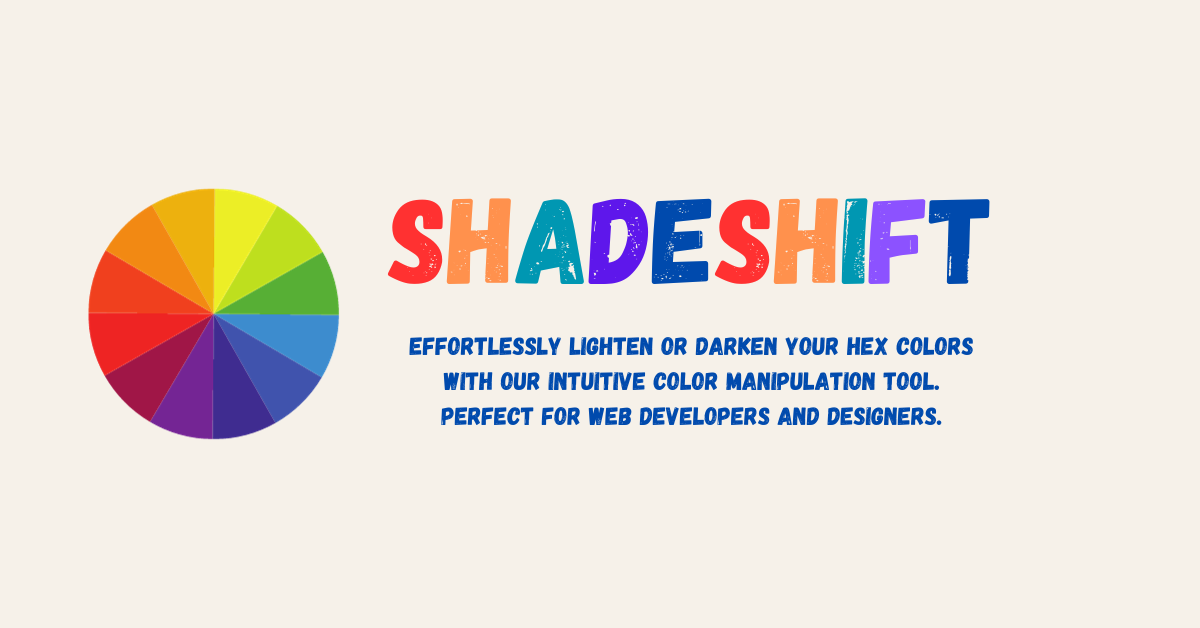
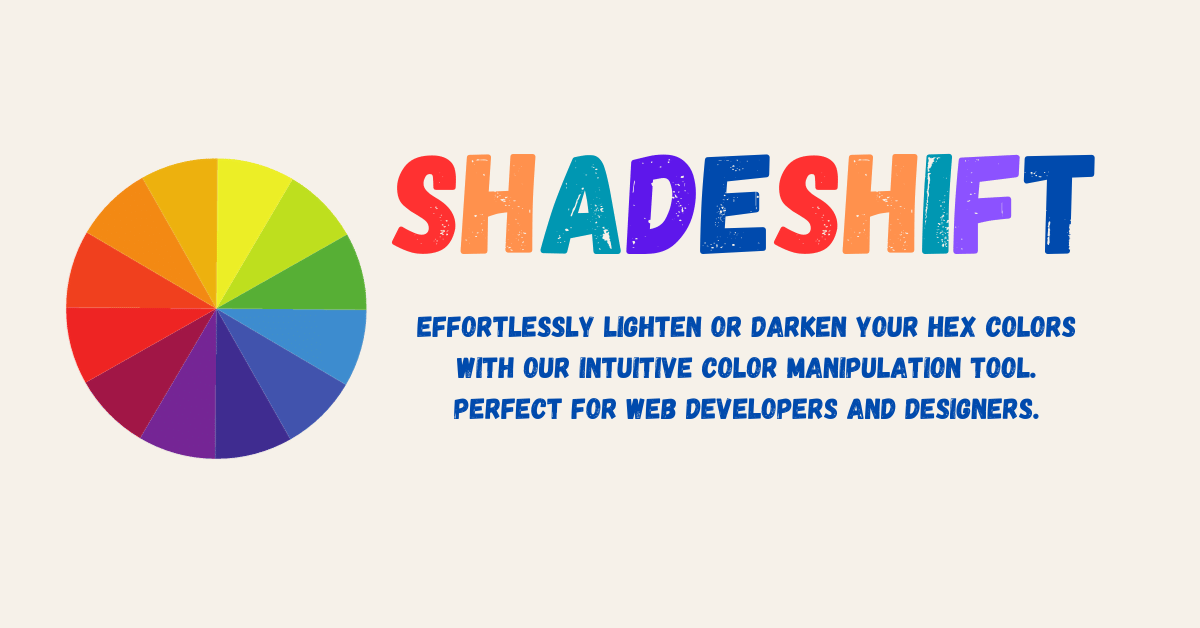
add github repo social image, Fix meta tag capitilization, add custom cursor for altered color and portfolio website link

Changed region(s): [[0.0308, 0.242, 0.925, 0.7564], [0.3392, 0.4841, 0.8942, 0.6959], [0.2158, 0.4236, 0.2467, 0.4538]]

diff --git a/index.html b/index.html
@@ -4,19 +4,19 @@
     <meta charset="UTF-8">
     <meta name="viewport" content="width=device-width, initial-scale=1.0">
 
-    <meta name="description" content="Shadeshift - Effortlessly lighten or darken your HEX colors with our intuitive color manipulation tool. Perfect for web developers and designers.">
+    <meta name="description" content="ShadeShift - Effortlessly lighten or darken your HEX colors with our intuitive color manipulation tool. Perfect for web developers and designers.">
     <meta name="author" content="Jacksen Nillson">
 
-    <meta property="og:title" content="Shadeshift: The Color Manipulation Tool" />
-    <meta property="og:description" content="Easily lighten or darken HEX colors with Shadeshift. Ideal for developers and designers seeking the perfect color shades." />
+    <meta property="og:title" content="ShadeShift: The Color Manipulation Tool" />
+    <meta property="og:description" content="Easily lighten or darken HEX colors with ShadeShift. Ideal for developers and designers seeking the perfect color shades." />
     <meta property="og:image" content="https://shadeshifttool.netlify.app/assets/images/ShadeShift-Social.png" />
     <meta property="og:url" content="https://shadeshifttool.netlify.app/" />
     <meta property="og:type" content="website" />
-    <meta property="og:site_name" content="Shadeshift" />
+    <meta property="og:site_name" content="ShadeShift" />
 
     <meta name="twitter:card" content="summary_large_image">
-    <meta name="twitter:title" content="Shadeshift: The Color Manipulation Tool">
-    <meta name="twitter:description" content="Discover the easiest way to adjust HEX color shades with Shadeshift, perfect for web development and design projects.">
+    <meta name="twitter:title" content="ShadeShift: The Color Manipulation Tool">
+    <meta name="twitter:description" content="Discover the easiest way to adjust HEX color shades with ShadeShift, perfect for web development and design projects.">
     <meta name="twitter:image" content="https://shadeshifttool.netlify.app/assets/images/ShadeShift-Social.png">
 
     <link rel="preconnect" href="https://fonts.googleapis.com">
@@ -55,7 +55,7 @@
         <h2 class="tool-description">Effortlessly adjust the brightness of any hue with ShadeShift. Just input your color's hex code, flip the toggle to lighten or darken, and slide to the precise percentage. Watch as your color transforms to the perfect shade.<br><br>Click or Tap the Altered Color preview window to copy the updated HEX code to your clipboard.</h2>
     </main>
     <footer>
-        <p>This tool was developed by <a href="https://devbyjacksen.com/">devbyjacksen</a></p>
+        <p>This tool was developed by <a class="portfolio-link" href="https://devbyjacksen.com/">devbyjacksen</a></p>
     </footer>
 
     <script src="./js/script.js"></script>

diff --git a/css/style.css b/css/style.css
@@ -108,8 +108,14 @@ input[type="text"] {
 }
 
 .altered-color-label:hover,
-.color-box--altered:hover {
-    cursor: pointer;
+.color-box--altered:hover,
+a:hover {
+    cursor: url(../assets/images/cursor-hand-drawn.svg), auto !important;
+}
+
+.altered-color-label:hover,
+.portfolio-link:hover {
+    color: rgb(30, 137, 9);
 }
 
 .hex-copied-notification {
@@ -133,7 +139,6 @@ footer {
 footer p {
     padding: 0.5rem 0;
 }
-
 
 @media screen and (min-width: 500px) {
 
